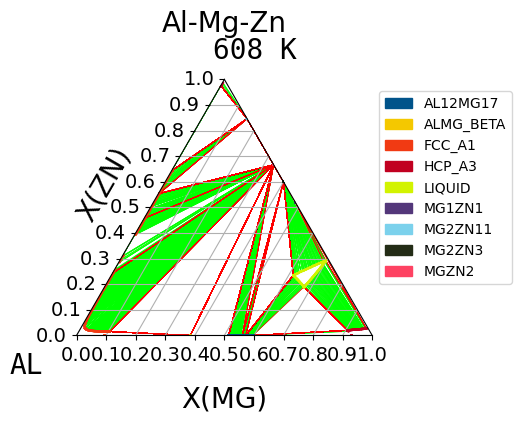
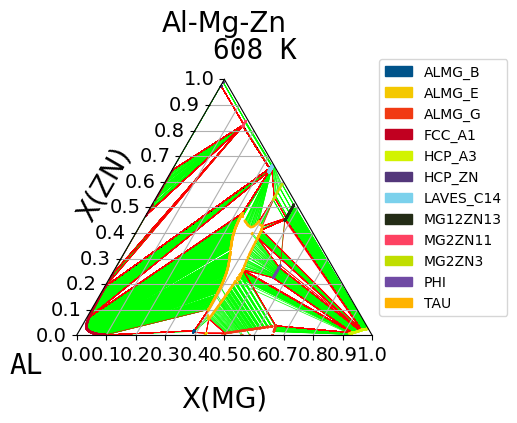
WSL2(ubuntu 22.04 LTS) on win11

diff --git a/Al-Mg-Zn/ternary-AlMgZn.py b/Al-Mg-Zn/ternary-AlMgZn.py
@@ -4,7 +4,8 @@ from pycalphad import Database, ternplot
 from pycalphad import variables as v
 
 #------User input area--------
-tdb_file = 'cost507R.TDB' # from OpenCALPHAD
+#tdb_file = 'cost507R.TDB' # from OpenCALPHAD
+tdb_file = 'modified_almgzn_hay.tdb' # from CPDDB (modifiled)
 ELA = 'Mg' # x-axis
 ELB = 'Al' # lower left side
 ELC = 'Zn' # y-axis
